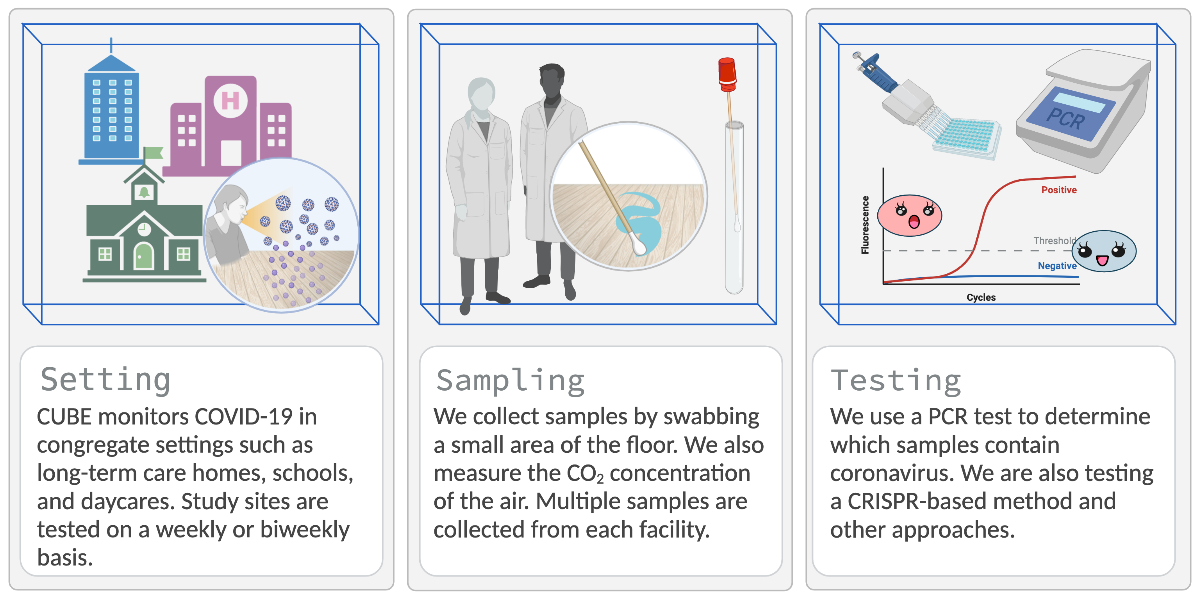
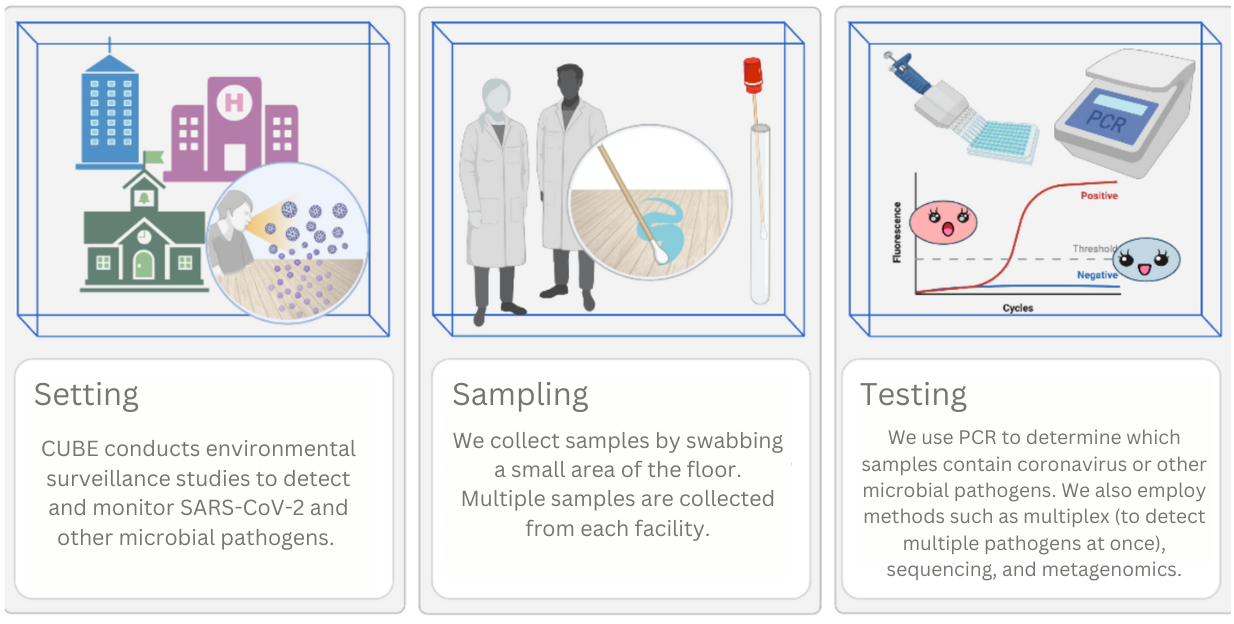
hania img updated infographic updated new media card for hospital study

diff --git a/publications_media.html b/publications_media.html
@@ -334,7 +334,7 @@ style="align: center; justify-content: center; justify-items: center; margin: au
 <div id="media" class="section level2">
 <h2>Media</h2>
 <div id="media">
-<p><div> <div class="row p-0 row-cols-1 row-cols-lg-2" style="margin-left: -.4rem; margin-right: -.4rem; margin-top: 1rem; margin-bottom: 1rem; "> <div class="card bg-transparent m-0 border-0 collapse.show bs4cards-blahblahblah " style="padding: .4rem ; border-width: 0; border-radius: .6rem .6rem .6rem .6rem ;"> <a href="https://medicalxpress.com/news/2024-10-floor-swabbing-covid-outbreaks-hospitals.html" style="color: inherit;"> <img src="public/img/media/hospital_door.jpg" class="card-img-top" style="border-style:solid; border-color:#AFAFAFFF; border-width:1px 1px 0 1px; border-radius: .6rem .6rem 0 0 ;"/> </a> <div class="card-body justify-content-end m-0 p-0" style="visibility: visible; background-color: inherits; border-style:solid; border-color:#AFAFAFFF; border-width:1px; border-radius: 0 0 0 0 ;"> <a href="https://medicalxpress.com/news/2024-10-floor-swabbing-covid-outbreaks-hospitals.html"> <h5 class="card-title my-auto px-3 pt-3 pb-1">Floor swabbing could help prevent COVID-19 outbreaks in hospitals</h5> </a> <p class="card-text my-auto px-3 pb-3 pt-1">Caroline Nott and Michael Fralick on correlation between floor swab results and human COVID-19 case burden and outbreaks in two Ontario hospitals.</p> </div> <div class="card-footer small text-muted px-3 py-auto" style="border-style:solid; border-color:#AFAFAFFF; border-width:0 1px 1px 1px; border-radius: 0 0 .6rem .6rem ;">2024-10-22 (Image: CC0 Public Domain)</div> </div> <div class="card bg-transparent m-0 border-0 collapse.show bs4cards-blahblahblah " style="padding: .4rem ; border-width: 0; border-radius: .6rem .6rem .6rem .6rem ;"> <a href="https://healthydebate.ca/podcast/episode-59-the-floor-is-covid-19/" style="color: inherit;"> <img src="public/img/media/roundstable.jpg" class="card-img-top" style="border-style:solid; border-color:#AFAFAFFF; border-width:1px 1px 0 1px; border-radius: .6rem .6rem 0 0 ;"/> </a> <div class="card-body justify-content-end m-0 p-0" style="visibility: visible; background-color: inherits; border-style:solid; border-color:#AFAFAFFF; border-width:1px; border-radius: 0 0 0 0 ;"> <a href="https://healthydebate.ca/podcast/episode-59-the-floor-is-covid-19/"> <h5 class="card-title my-auto px-3 pt-3 pb-1">Rounds Table Podcast Episode 59 – The Floor is COVID-19</h5> </a> <p class="card-text my-auto px-3 pb-3 pt-1">Dr. John Fralick sits down with Dr. Mike Fralick to chat about a project he recently published in NEJM Evidence entitled, “Detection of Covid-19 Outbreaks Using Built Environment Testing for SARS-CoV-2” – a study designed to explore how to best surveil for COVID-19 in congregate living settings!</p> </div> <div class="card-footer small text-muted px-3 py-auto" style="border-style:solid; border-color:#AFAFAFFF; border-width:0 1px 1px 1px; border-radius: 0 0 .6rem .6rem ;">2023-04-20</div> </div> <div class="card bg-transparent m-0 border-0 collapse.show bs4cards-blahblahblah " style="padding: .4rem ; border-width: 0; border-radius: .6rem .6rem .6rem .6rem ;"> <a href="https://app2.cision.com/#/articles/150001568329906?userId=0fd28d551ce002a48a454e72011939e1&amp;startDate=1678878858000&amp;endDate=1679051658000" style="color: inherit;"> <img src="public/img/media/radio-unsplash.avif" class="card-img-top" style="border-style:solid; border-color:#AFAFAFFF; border-width:1px 1px 0 1px; border-radius: .6rem .6rem 0 0 ;"/> </a> <div class="card-body justify-content-end m-0 p-0" style="visibility: visible; background-color: inherits; border-style:solid; border-color:#AFAFAFFF; border-width:1px; border-radius: 0 0 0 0 ;"> <a href="https://app2.cision.com/#/articles/150001568329906?userId=0fd28d551ce002a48a454e72011939e1&amp;startDate=1678878858000&amp;endDate=1679051658000"> <h5 class="card-title my-auto px-3 pt-3 pb-1">Rees Kassen interview on 1310 News</h5> </a> <p class="card-text my-auto px-3 pb-3 pt-1">Rees chats about outbreak prediction and pathogen surveillance</p> </div> <div class="card-footer small text-muted px-3 py-auto" style="border-style:solid; border-color:#AFAFAFFF; border-width:0 1px 1px 1px; border-radius: 0 0 .6rem .6rem ;">2023-03-16 (Image: Marcus Spiske/Unsplash)</div> </div> <div class="card bg-transparent m-0 border-0 collapse.show bs4cards-blahblahblah " style="padding: .4rem ; border-width: 0; border-radius: .6rem .6rem .6rem .6rem ;"> <a href="https://www.cbc.ca/news/canada/ottawa/long-term-care-home-floor-swab-predict-outbreak-1.6769836" style="color: inherit;"> <img src="public/img/media/aaron_swab.jpg" class="card-img-top" style="border-style:solid; border-color:#AFAFAFFF; border-width:1px 1px 0 1px; border-radius: .6rem .6rem 0 0 ;"/> </a> <div class="card-body justify-content-end m-0 p-0" style="visibility: visible; background-color: inherits; border-style:solid; border-color:#AFAFAFFF; border-width:1px; border-radius: 0 0 0 0 ;"> <a href="https://www.cbc.ca/news/canada/ottawa/long-term-care-home-floor-swab-predict-outbreak-1.6769836"> <h5 class="card-title my-auto px-3 pt-3 pb-1">Floor swabs at LTC homes early predictor of COVID outbreaks, study finds</h5> </a> <p class="card-text my-auto px-3 pb-3 pt-1">CBC News Ottawa talks with our team about research conducted in long-term care homes across Ontario.</p> </div> <div class="card-footer small text-muted px-3 py-auto" style="border-style:solid; border-color:#AFAFAFFF; border-width:0 1px 1px 1px; border-radius: 0 0 .6rem .6rem ;">2023-03-15 (Image: Jean Delisle/CBC)</div> </div> <div class="card bg-transparent m-0 border-0 collapse.show bs4cards-blahblahblah " style="padding: .4rem ; border-width: 0; border-radius: .6rem .6rem .6rem .6rem ;"> <a href="https://www.cbc.ca/listen/live-radio/1-100-ottawa-morning/clip/15972240-new-study-shows-its-possible-detect-covid-19-outbreak" style="color: inherit;"> <img src="public/img/media/lab_team.avif" class="card-img-top" style="border-style:solid; border-color:#AFAFAFFF; border-width:1px 1px 0 1px; border-radius: .6rem .6rem 0 0 ;"/> </a> <div class="card-body justify-content-end m-0 p-0" style="visibility: visible; background-color: inherits; border-style:solid; border-color:#AFAFAFFF; border-width:1px; border-radius: 0 0 0 0 ;"> <a href="https://www.cbc.ca/listen/live-radio/1-100-ottawa-morning/clip/15972240-new-study-shows-its-possible-detect-covid-19-outbreak"> <h5 class="card-title my-auto px-3 pt-3 pb-1">New study shows it’s possible to detect a COVID-19 outbreak before it happens</h5> </a> <p class="card-text my-auto px-3 pb-3 pt-1">Stu Mills interviews Rees Kassen about floor swabbing, the CUBE project, and our recent work in long-term care homes.</p> </div> <div class="card-footer small text-muted px-3 py-auto" style="border-style:solid; border-color:#AFAFAFFF; border-width:0 1px 1px 1px; border-radius: 0 0 .6rem .6rem ;">2023-03-15 (Image: Jean Delisle/CBC)</div> </div> <div class="card bg-transparent m-0 border-0 collapse.show bs4cards-blahblahblah " style="padding: .4rem ; border-width: 0; border-radius: .6rem .6rem .6rem .6rem ;"> <a href="https://northernontario.ctvnews.ca/sault-area-nursing-homes-involved-in-covid-19-study-1.6315272" style="color: inherit;"> <img src="public/img/media/northern-ontario-unsplash.jpg" class="card-img-top" style="border-style:solid; border-color:#AFAFAFFF; border-width:1px 1px 0 1px; border-radius: .6rem .6rem 0 0 ;"/> </a> <div class="card-body justify-content-end m-0 p-0" style="visibility: visible; background-color: inherits; border-style:solid; border-color:#AFAFAFFF; border-width:1px; border-radius: 0 0 0 0 ;"> <a href="https://northernontario.ctvnews.ca/sault-area-nursing-homes-involved-in-covid-19-study-1.6315272"> <h5 class="card-title my-auto px-3 pt-3 pb-1">Sault-area nursing homes involved in COVID-19 study</h5> </a> <p class="card-text my-auto px-3 pb-3 pt-1">CTV News talks with Mike Fralick about our research in long-term care homes</p> </div> <div class="card-footer small text-muted px-3 py-auto" style="border-style:solid; border-color:#AFAFAFFF; border-width:0 1px 1px 1px; border-radius: 0 0 .6rem .6rem ;">2023-03-15 (Image: Camerauthor/Unsplash)</div> </div> <div class="card bg-transparent m-0 border-0 collapse.show bs4cards-blahblahblah " style="padding: .4rem ; border-width: 0; border-radius: .6rem .6rem .6rem .6rem ;"> <a href="https://www.youtube.com/watch?v=67glW8O11oU" style="color: inherit;"> <img src="public/img/media/pho_rounds.jpg" class="card-img-top" style="border-style:solid; border-color:#AFAFAFFF; border-width:1px 1px 0 1px; border-radius: .6rem .6rem 0 0 ;"/> </a> <div class="card-body justify-content-end m-0 p-0" style="visibility: visible; background-color: inherits; border-style:solid; border-color:#AFAFAFFF; border-width:1px; border-radius: 0 0 0 0 ;"> <a href="https://www.youtube.com/watch?v=67glW8O11oU"> <h5 class="card-title my-auto px-3 pt-3 pb-1">PHO Rounds</h5> </a> <p class="card-text my-auto px-3 pb-3 pt-1">PHO Rounds presentation by CUBE: Evaluating the use of Environmental Swabs for the Detection and Surveillance of SARS-CoV-2 in School and Congregate Settings</p> </div> <div class="card-footer small text-muted px-3 py-auto" style="border-style:solid; border-color:#AFAFAFFF; border-width:0 1px 1px 1px; border-radius: 0 0 .6rem .6rem ;">2022-09-15</div> </div> <div class="card bg-transparent m-0 border-0 collapse.show bs4cards-blahblahblah " style="padding: .4rem ; border-width: 0; border-radius: .6rem .6rem .6rem .6rem ;"> <a href="https://www.youtube.com/watch?v=IUNkknne72I" style="color: inherit;"> <img src="public/img/media/tedx.jpg" class="card-img-top" style="border-style:solid; border-color:#AFAFAFFF; border-width:1px 1px 0 1px; border-radius: .6rem .6rem 0 0 ;"/> </a> <div class="card-body justify-content-end m-0 p-0" style="visibility: visible; background-color: inherits; border-style:solid; border-color:#AFAFAFFF; border-width:1px; border-radius: 0 0 0 0 ;"> <a href="https://www.youtube.com/watch?v=IUNkknne72I"> <h5 class="card-title my-auto px-3 pt-3 pb-1">CUBE @ TEDx UGuelph</h5> </a> <p class="card-text my-auto px-3 pb-3 pt-1">Michael Fralick presents research findings from the CUBE project for a general audience.</p> </div> <div class="card-footer small text-muted px-3 py-auto" style="border-style:solid; border-color:#AFAFAFFF; border-width:0 1px 1px 1px; border-radius: 0 0 .6rem .6rem ;">2022-04-01</div> </div> <div class="card bg-transparent m-0 border-0 collapse.show bs4cards-blahblahblah " style="padding: .4rem ; border-width: 0; border-radius: .6rem .6rem .6rem .6rem ;"> <a href="https://www.cbc.ca/listen/live-radio/1-90-columnists-from-cbc-radio/clip/15896240-looking-covid-try-floor" style="color: inherit;"> <img src="public/img/media/floor_swab.avif" class="card-img-top" style="border-style:solid; border-color:#AFAFAFFF; border-width:1px 1px 0 1px; border-radius: .6rem .6rem 0 0 ;"/> </a> <div class="card-body justify-content-end m-0 p-0" style="visibility: visible; background-color: inherits; border-style:solid; border-color:#AFAFAFFF; border-width:1px; border-radius: 0 0 0 0 ;"> <a href="https://www.cbc.ca/listen/live-radio/1-90-columnists-from-cbc-radio/clip/15896240-looking-covid-try-floor"> <h5 class="card-title my-auto px-3 pt-3 pb-1">Looking for COVID? Try the floor</h5> </a> <p class="card-text my-auto px-3 pb-3 pt-1">The CBC interviews Rees Kassen about  COVID-19 and the CUBE project.</p> </div> <div class="card-footer small text-muted px-3 py-auto" style="border-style:solid; border-color:#AFAFAFFF; border-width:0 1px 1px 1px; border-radius: 0 0 .6rem .6rem ;">2022-02-21 (Image: Jean Delisle/CBC)</div> </div> <div class="card bg-transparent m-0 border-0 collapse.show bs4cards-blahblahblah " style="padding: .4rem ; border-width: 0; border-radius: .6rem .6rem .6rem .6rem ;"> <a href="https://theconversation.com/swabbing-floors-to-detect-covid-19-could-be-a-useful-indicator-of-the-diseases-spread-175832" style="color: inherit;"> <img src="public/img/media/michal-pechardo-floor.jpg" class="card-img-top" style="border-style:solid; border-color:#AFAFAFFF; border-width:1px 1px 0 1px; border-radius: .6rem .6rem 0 0 ;"/> </a> <div class="card-body justify-content-end m-0 p-0" style="visibility: visible; background-color: inherits; border-style:solid; border-color:#AFAFAFFF; border-width:1px; border-radius: 0 0 0 0 ;"> <a href="https://theconversation.com/swabbing-floors-to-detect-covid-19-could-be-a-useful-indicator-of-the-diseases-spread-175832"> <h5 class="card-title my-auto px-3 pt-3 pb-1">Swabbing floors to detect COVID-19 could be a useful indicator of the disease’s spread</h5> </a> <p class="card-text my-auto px-3 pb-3 pt-1">Aaron Hinz and Rees Kassen in The Conversation.</p> </div> <div class="card-footer small text-muted px-3 py-auto" style="border-style:solid; border-color:#AFAFAFFF; border-width:0 1px 1px 1px; border-radius: 0 0 .6rem .6rem ;">2022-02-15 (Image: Michal Pechardo/Unsplash)</div> </div> <div class="card bg-transparent m-0 border-0 collapse.show bs4cards-blahblahblah " style="padding: .4rem ; border-width: 0; border-radius: .6rem .6rem .6rem .6rem ;"> <a href="https://www.loc.gov/item/webcast-9908/" style="color: inherit;"> <img src="public/img/media/library-of-congress-unsplash.jpg" class="card-img-top" style="border-style:solid; border-color:#AFAFAFFF; border-width:1px 1px 0 1px; border-radius: .6rem .6rem 0 0 ;"/> </a> <div class="card-body justify-content-end m-0 p-0" style="visibility: visible; background-color: inherits; border-style:solid; border-color:#AFAFAFFF; border-width:1px; border-radius: 0 0 0 0 ;"> <a href="https://www.loc.gov/item/webcast-9908/"> <h5 class="card-title my-auto px-3 pt-3 pb-1">CUBE Lecture Presented at the Library of Congress</h5> </a> <p class="card-text my-auto px-3 pb-3 pt-1">Rees Kassen and Caroline Nott present CUBE research in their Library of Congress lecture.</p> </div> <div class="card-footer small text-muted px-3 py-auto" style="border-style:solid; border-color:#AFAFAFFF; border-width:0 1px 1px 1px; border-radius: 0 0 .6rem .6rem ;">2021-07-21. Skip to 44:10 (Image: Library of Congress/Unsplash)</div> </div> </div> </div></p>
+<p><div> <div class="row p-0 row-cols-1 row-cols-lg-2" style="margin-left: -.4rem; margin-right: -.4rem; margin-top: 1rem; margin-bottom: 1rem; "> <div class="card bg-transparent m-0 border-0 collapse.show bs4cards-blahblahblah " style="padding: .4rem ; border-width: 0; border-radius: .6rem .6rem .6rem .6rem ;"> <a href="https://www.medscape.com/viewarticle/covid-floor-linked-outbreaks-two-hospital-wards-2024a1000jzp" style="color: inherit;"> <img src="public/img/media/hospital_corridor.jpg" class="card-img-top" style="border-style:solid; border-color:#AFAFAFFF; border-width:1px 1px 0 1px; border-radius: .6rem .6rem 0 0 ;"/> </a> <div class="card-body justify-content-end m-0 p-0" style="visibility: visible; background-color: inherits; border-style:solid; border-color:#AFAFAFFF; border-width:1px; border-radius: 0 0 0 0 ;"> <a href="https://www.medscape.com/viewarticle/covid-floor-linked-outbreaks-two-hospital-wards-2024a1000jzp"> <h5 class="card-title my-auto px-3 pt-3 pb-1">COVID on the Floor Linked to Outbreaks on Two Hospital Wards</h5> </a> <p class="card-text my-auto px-3 pb-3 pt-1">Dr. Caroline Nott discusses our recent study looking at the association of the viral burden of SARS-CoV-2 on floors with COVID-19 outbreaks in two acute-care hospitals.</p> </div> <div class="card-footer small text-muted px-3 py-auto" style="border-style:solid; border-color:#AFAFAFFF; border-width:0 1px 1px 1px; border-radius: 0 0 .6rem .6rem ;">2024-11-01 (Image: by Sandjaya via Pixabay)</div> </div> <div class="card bg-transparent m-0 border-0 collapse.show bs4cards-blahblahblah " style="padding: .4rem ; border-width: 0; border-radius: .6rem .6rem .6rem .6rem ;"> <a href="https://medicalxpress.com/news/2024-10-floor-swabbing-covid-outbreaks-hospitals.html" style="color: inherit;"> <img src="public/img/media/hospital_door.jpg" class="card-img-top" style="border-style:solid; border-color:#AFAFAFFF; border-width:1px 1px 0 1px; border-radius: .6rem .6rem 0 0 ;"/> </a> <div class="card-body justify-content-end m-0 p-0" style="visibility: visible; background-color: inherits; border-style:solid; border-color:#AFAFAFFF; border-width:1px; border-radius: 0 0 0 0 ;"> <a href="https://medicalxpress.com/news/2024-10-floor-swabbing-covid-outbreaks-hospitals.html"> <h5 class="card-title my-auto px-3 pt-3 pb-1">Floor swabbing could help prevent COVID-19 outbreaks in hospitals</h5> </a> <p class="card-text my-auto px-3 pb-3 pt-1">Caroline Nott and Michael Fralick on correlation between floor swab results and human COVID-19 case burden and outbreaks in two Ontario hospitals.</p> </div> <div class="card-footer small text-muted px-3 py-auto" style="border-style:solid; border-color:#AFAFAFFF; border-width:0 1px 1px 1px; border-radius: 0 0 .6rem .6rem ;">2024-10-22 (Image: CC0 Public Domain)</div> </div> <div class="card bg-transparent m-0 border-0 collapse.show bs4cards-blahblahblah " style="padding: .4rem ; border-width: 0; border-radius: .6rem .6rem .6rem .6rem ;"> <a href="https://healthydebate.ca/podcast/episode-59-the-floor-is-covid-19/" style="color: inherit;"> <img src="public/img/media/roundstable.jpg" class="card-img-top" style="border-style:solid; border-color:#AFAFAFFF; border-width:1px 1px 0 1px; border-radius: .6rem .6rem 0 0 ;"/> </a> <div class="card-body justify-content-end m-0 p-0" style="visibility: visible; background-color: inherits; border-style:solid; border-color:#AFAFAFFF; border-width:1px; border-radius: 0 0 0 0 ;"> <a href="https://healthydebate.ca/podcast/episode-59-the-floor-is-covid-19/"> <h5 class="card-title my-auto px-3 pt-3 pb-1">Rounds Table Podcast Episode 59 – The Floor is COVID-19</h5> </a> <p class="card-text my-auto px-3 pb-3 pt-1">Dr. John Fralick sits down with Dr. Mike Fralick to chat about a project he recently published in NEJM Evidence entitled, “Detection of Covid-19 Outbreaks Using Built Environment Testing for SARS-CoV-2” – a study designed to explore how to best surveil for COVID-19 in congregate living settings!</p> </div> <div class="card-footer small text-muted px-3 py-auto" style="border-style:solid; border-color:#AFAFAFFF; border-width:0 1px 1px 1px; border-radius: 0 0 .6rem .6rem ;">2023-04-20</div> </div> <div class="card bg-transparent m-0 border-0 collapse.show bs4cards-blahblahblah " style="padding: .4rem ; border-width: 0; border-radius: .6rem .6rem .6rem .6rem ;"> <a href="https://app2.cision.com/#/articles/150001568329906?userId=0fd28d551ce002a48a454e72011939e1&amp;startDate=1678878858000&amp;endDate=1679051658000" style="color: inherit;"> <img src="public/img/media/radio-unsplash.avif" class="card-img-top" style="border-style:solid; border-color:#AFAFAFFF; border-width:1px 1px 0 1px; border-radius: .6rem .6rem 0 0 ;"/> </a> <div class="card-body justify-content-end m-0 p-0" style="visibility: visible; background-color: inherits; border-style:solid; border-color:#AFAFAFFF; border-width:1px; border-radius: 0 0 0 0 ;"> <a href="https://app2.cision.com/#/articles/150001568329906?userId=0fd28d551ce002a48a454e72011939e1&amp;startDate=1678878858000&amp;endDate=1679051658000"> <h5 class="card-title my-auto px-3 pt-3 pb-1">Rees Kassen interview on 1310 News</h5> </a> <p class="card-text my-auto px-3 pb-3 pt-1">Rees chats about outbreak prediction and pathogen surveillance</p> </div> <div class="card-footer small text-muted px-3 py-auto" style="border-style:solid; border-color:#AFAFAFFF; border-width:0 1px 1px 1px; border-radius: 0 0 .6rem .6rem ;">2023-03-16 (Image: Marcus Spiske/Unsplash)</div> </div> <div class="card bg-transparent m-0 border-0 collapse.show bs4cards-blahblahblah " style="padding: .4rem ; border-width: 0; border-radius: .6rem .6rem .6rem .6rem ;"> <a href="https://www.cbc.ca/news/canada/ottawa/long-term-care-home-floor-swab-predict-outbreak-1.6769836" style="color: inherit;"> <img src="public/img/media/aaron_swab.jpg" class="card-img-top" style="border-style:solid; border-color:#AFAFAFFF; border-width:1px 1px 0 1px; border-radius: .6rem .6rem 0 0 ;"/> </a> <div class="card-body justify-content-end m-0 p-0" style="visibility: visible; background-color: inherits; border-style:solid; border-color:#AFAFAFFF; border-width:1px; border-radius: 0 0 0 0 ;"> <a href="https://www.cbc.ca/news/canada/ottawa/long-term-care-home-floor-swab-predict-outbreak-1.6769836"> <h5 class="card-title my-auto px-3 pt-3 pb-1">Floor swabs at LTC homes early predictor of COVID outbreaks, study finds</h5> </a> <p class="card-text my-auto px-3 pb-3 pt-1">CBC News Ottawa talks with our team about research conducted in long-term care homes across Ontario.</p> </div> <div class="card-footer small text-muted px-3 py-auto" style="border-style:solid; border-color:#AFAFAFFF; border-width:0 1px 1px 1px; border-radius: 0 0 .6rem .6rem ;">2023-03-15 (Image: Jean Delisle/CBC)</div> </div> <div class="card bg-transparent m-0 border-0 collapse.show bs4cards-blahblahblah " style="padding: .4rem ; border-width: 0; border-radius: .6rem .6rem .6rem .6rem ;"> <a href="https://www.cbc.ca/listen/live-radio/1-100-ottawa-morning/clip/15972240-new-study-shows-its-possible-detect-covid-19-outbreak" style="color: inherit;"> <img src="public/img/media/lab_team.avif" class="card-img-top" style="border-style:solid; border-color:#AFAFAFFF; border-width:1px 1px 0 1px; border-radius: .6rem .6rem 0 0 ;"/> </a> <div class="card-body justify-content-end m-0 p-0" style="visibility: visible; background-color: inherits; border-style:solid; border-color:#AFAFAFFF; border-width:1px; border-radius: 0 0 0 0 ;"> <a href="https://www.cbc.ca/listen/live-radio/1-100-ottawa-morning/clip/15972240-new-study-shows-its-possible-detect-covid-19-outbreak"> <h5 class="card-title my-auto px-3 pt-3 pb-1">New study shows it’s possible to detect a COVID-19 outbreak before it happens</h5> </a> <p class="card-text my-auto px-3 pb-3 pt-1">Stu Mills interviews Rees Kassen about floor swabbing, the CUBE project, and our recent work in long-term care homes.</p> </div> <div class="card-footer small text-muted px-3 py-auto" style="border-style:solid; border-color:#AFAFAFFF; border-width:0 1px 1px 1px; border-radius: 0 0 .6rem .6rem ;">2023-03-15 (Image: Jean Delisle/CBC)</div> </div> <div class="card bg-transparent m-0 border-0 collapse.show bs4cards-blahblahblah " style="padding: .4rem ; border-width: 0; border-radius: .6rem .6rem .6rem .6rem ;"> <a href="https://northernontario.ctvnews.ca/sault-area-nursing-homes-involved-in-covid-19-study-1.6315272" style="color: inherit;"> <img src="public/img/media/northern-ontario-unsplash.jpg" class="card-img-top" style="border-style:solid; border-color:#AFAFAFFF; border-width:1px 1px 0 1px; border-radius: .6rem .6rem 0 0 ;"/> </a> <div class="card-body justify-content-end m-0 p-0" style="visibility: visible; background-color: inherits; border-style:solid; border-color:#AFAFAFFF; border-width:1px; border-radius: 0 0 0 0 ;"> <a href="https://northernontario.ctvnews.ca/sault-area-nursing-homes-involved-in-covid-19-study-1.6315272"> <h5 class="card-title my-auto px-3 pt-3 pb-1">Sault-area nursing homes involved in COVID-19 study</h5> </a> <p class="card-text my-auto px-3 pb-3 pt-1">CTV News talks with Mike Fralick about our research in long-term care homes</p> </div> <div class="card-footer small text-muted px-3 py-auto" style="border-style:solid; border-color:#AFAFAFFF; border-width:0 1px 1px 1px; border-radius: 0 0 .6rem .6rem ;">2023-03-15 (Image: Camerauthor/Unsplash)</div> </div> <div class="card bg-transparent m-0 border-0 collapse.show bs4cards-blahblahblah " style="padding: .4rem ; border-width: 0; border-radius: .6rem .6rem .6rem .6rem ;"> <a href="https://www.youtube.com/watch?v=67glW8O11oU" style="color: inherit;"> <img src="public/img/media/pho_rounds.jpg" class="card-img-top" style="border-style:solid; border-color:#AFAFAFFF; border-width:1px 1px 0 1px; border-radius: .6rem .6rem 0 0 ;"/> </a> <div class="card-body justify-content-end m-0 p-0" style="visibility: visible; background-color: inherits; border-style:solid; border-color:#AFAFAFFF; border-width:1px; border-radius: 0 0 0 0 ;"> <a href="https://www.youtube.com/watch?v=67glW8O11oU"> <h5 class="card-title my-auto px-3 pt-3 pb-1">PHO Rounds</h5> </a> <p class="card-text my-auto px-3 pb-3 pt-1">PHO Rounds presentation by CUBE: Evaluating the use of Environmental Swabs for the Detection and Surveillance of SARS-CoV-2 in School and Congregate Settings</p> </div> <div class="card-footer small text-muted px-3 py-auto" style="border-style:solid; border-color:#AFAFAFFF; border-width:0 1px 1px 1px; border-radius: 0 0 .6rem .6rem ;">2022-09-15</div> </div> <div class="card bg-transparent m-0 border-0 collapse.show bs4cards-blahblahblah " style="padding: .4rem ; border-width: 0; border-radius: .6rem .6rem .6rem .6rem ;"> <a href="https://www.youtube.com/watch?v=IUNkknne72I" style="color: inherit;"> <img src="public/img/media/tedx.jpg" class="card-img-top" style="border-style:solid; border-color:#AFAFAFFF; border-width:1px 1px 0 1px; border-radius: .6rem .6rem 0 0 ;"/> </a> <div class="card-body justify-content-end m-0 p-0" style="visibility: visible; background-color: inherits; border-style:solid; border-color:#AFAFAFFF; border-width:1px; border-radius: 0 0 0 0 ;"> <a href="https://www.youtube.com/watch?v=IUNkknne72I"> <h5 class="card-title my-auto px-3 pt-3 pb-1">CUBE @ TEDx UGuelph</h5> </a> <p class="card-text my-auto px-3 pb-3 pt-1">Michael Fralick presents research findings from the CUBE project for a general audience.</p> </div> <div class="card-footer small text-muted px-3 py-auto" style="border-style:solid; border-color:#AFAFAFFF; border-width:0 1px 1px 1px; border-radius: 0 0 .6rem .6rem ;">2022-04-01</div> </div> <div class="card bg-transparent m-0 border-0 collapse.show bs4cards-blahblahblah " style="padding: .4rem ; border-width: 0; border-radius: .6rem .6rem .6rem .6rem ;"> <a href="https://www.cbc.ca/listen/live-radio/1-90-columnists-from-cbc-radio/clip/15896240-looking-covid-try-floor" style="color: inherit;"> <img src="public/img/media/floor_swab.avif" class="card-img-top" style="border-style:solid; border-color:#AFAFAFFF; border-width:1px 1px 0 1px; border-radius: .6rem .6rem 0 0 ;"/> </a> <div class="card-body justify-content-end m-0 p-0" style="visibility: visible; background-color: inherits; border-style:solid; border-color:#AFAFAFFF; border-width:1px; border-radius: 0 0 0 0 ;"> <a href="https://www.cbc.ca/listen/live-radio/1-90-columnists-from-cbc-radio/clip/15896240-looking-covid-try-floor"> <h5 class="card-title my-auto px-3 pt-3 pb-1">Looking for COVID? Try the floor</h5> </a> <p class="card-text my-auto px-3 pb-3 pt-1">The CBC interviews Rees Kassen about  COVID-19 and the CUBE project.</p> </div> <div class="card-footer small text-muted px-3 py-auto" style="border-style:solid; border-color:#AFAFAFFF; border-width:0 1px 1px 1px; border-radius: 0 0 .6rem .6rem ;">2022-02-21 (Image: Jean Delisle/CBC)</div> </div> <div class="card bg-transparent m-0 border-0 collapse.show bs4cards-blahblahblah " style="padding: .4rem ; border-width: 0; border-radius: .6rem .6rem .6rem .6rem ;"> <a href="https://theconversation.com/swabbing-floors-to-detect-covid-19-could-be-a-useful-indicator-of-the-diseases-spread-175832" style="color: inherit;"> <img src="public/img/media/michal-pechardo-floor.jpg" class="card-img-top" style="border-style:solid; border-color:#AFAFAFFF; border-width:1px 1px 0 1px; border-radius: .6rem .6rem 0 0 ;"/> </a> <div class="card-body justify-content-end m-0 p-0" style="visibility: visible; background-color: inherits; border-style:solid; border-color:#AFAFAFFF; border-width:1px; border-radius: 0 0 0 0 ;"> <a href="https://theconversation.com/swabbing-floors-to-detect-covid-19-could-be-a-useful-indicator-of-the-diseases-spread-175832"> <h5 class="card-title my-auto px-3 pt-3 pb-1">Swabbing floors to detect COVID-19 could be a useful indicator of the disease’s spread</h5> </a> <p class="card-text my-auto px-3 pb-3 pt-1">Aaron Hinz and Rees Kassen in The Conversation.</p> </div> <div class="card-footer small text-muted px-3 py-auto" style="border-style:solid; border-color:#AFAFAFFF; border-width:0 1px 1px 1px; border-radius: 0 0 .6rem .6rem ;">2022-02-15 (Image: Michal Pechardo/Unsplash)</div> </div> <div class="card bg-transparent m-0 border-0 collapse.show bs4cards-blahblahblah " style="padding: .4rem ; border-width: 0; border-radius: .6rem .6rem .6rem .6rem ;"> <a href="https://www.loc.gov/item/webcast-9908/" style="color: inherit;"> <img src="public/img/media/library-of-congress-unsplash.jpg" class="card-img-top" style="border-style:solid; border-color:#AFAFAFFF; border-width:1px 1px 0 1px; border-radius: .6rem .6rem 0 0 ;"/> </a> <div class="card-body justify-content-end m-0 p-0" style="visibility: visible; background-color: inherits; border-style:solid; border-color:#AFAFAFFF; border-width:1px; border-radius: 0 0 0 0 ;"> <a href="https://www.loc.gov/item/webcast-9908/"> <h5 class="card-title my-auto px-3 pt-3 pb-1">CUBE Lecture Presented at the Library of Congress</h5> </a> <p class="card-text my-auto px-3 pb-3 pt-1">Rees Kassen and Caroline Nott present CUBE research in their Library of Congress lecture.</p> </div> <div class="card-footer small text-muted px-3 py-auto" style="border-style:solid; border-color:#AFAFAFFF; border-width:0 1px 1px 1px; border-radius: 0 0 .6rem .6rem ;">2021-07-21. Skip to 44:10 (Image: Library of Congress/Unsplash)</div> </div> </div> </div></p>
 </div>
 <hr />
 </div>

diff --git a/index.html b/index.html
@@ -34,13 +34,13 @@
 <meta name="twitter:title" content="COVID-19 in the Urban Built Environment"/>
 <meta name="twitter:description" content="The COVID-19 in the Urban Built Environment (CUBE) project seeks to develop environmental sampling as a spatially-resolved method for monitoring COVID-19 in congregate settings such as long-term care homes (LTC), universities, public schools, and daycares. "/>
 <meta name="twitter:url" content="https://cube-ontario.github.io"/>
-<meta name="twitter:image" content="https://cube-ontario.github.io/public/img/infographic.png"/>
+<meta name="twitter:image" content="https://cube-ontario.github.io/public/img/infographic.jpg"/>
 <meta name="twitter:image:alt" content="The COVID-19 in the Urban Built Environment (CUBE) project seeks to develop environmental sampling as a spatially-resolved method for monitoring COVID-19 in congregate settings such as long-term care homes (LTC), universities, public schools, and daycares. "/>
 <meta name="twitter:card" content="summary_large_image"/>
 <meta property="og:title" content="COVID-19 in the Urban Built Environment"/>
 <meta property="og:description" content="The COVID-19 in the Urban Built Environment (CUBE) project seeks to develop environmental sampling as a spatially-resolved method for monitoring COVID-19 in congregate settings such as long-term care homes (LTC), universities, public schools, and daycares. "/>
 <meta property="og:url" content="https://cube-ontario.github.io"/>
-<meta property="og:image" content="https://cube-ontario.github.io/public/img/infographic.png"/>
+<meta property="og:image" content="https://cube-ontario.github.io/public/img/infographic.jpg"/>
 <meta property="og:image:alt" content="The COVID-19 in the Urban Built Environment (CUBE) project seeks to develop environmental sampling as a spatially-resolved method for monitoring COVID-19 in congregate settings such as long-term care homes (LTC), universities, public schools, and daycares. "/>
 <meta property="og:type" content="website"/>
 <meta property="og:locale" content="en_US"/>

diff --git a/about.html b/about.html
@@ -334,7 +334,7 @@ $(document).ready(function () {
 <hr />
 <div id="overview" class="section level2">
 <h2>Overview</h2>
-<p><img src="public/img/about_infographic.jpg" id="infographic"
+<p><img src="./public/img/infographic.jpg" id="infographic"
 class="img-responsive img-fluid rounded" width="1050" /></p>
 <ul>
 <li>The Coronavirus in the Urban Built Environment (CUBE) project seeks
